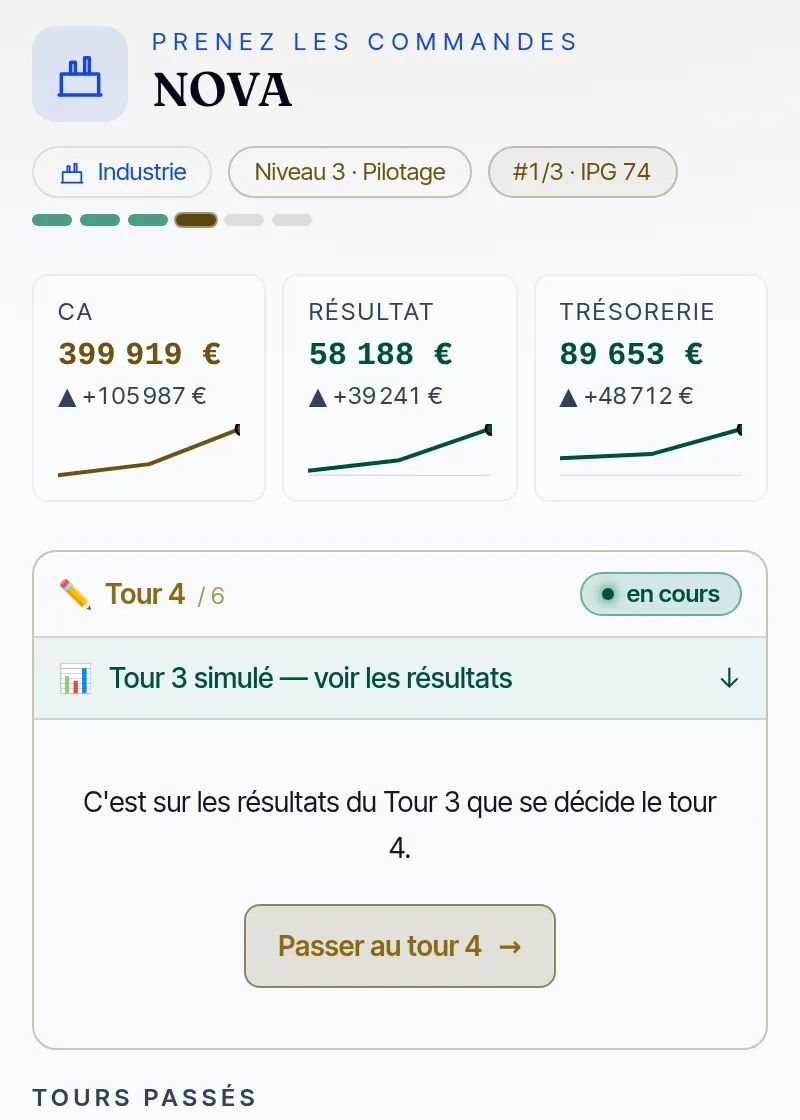
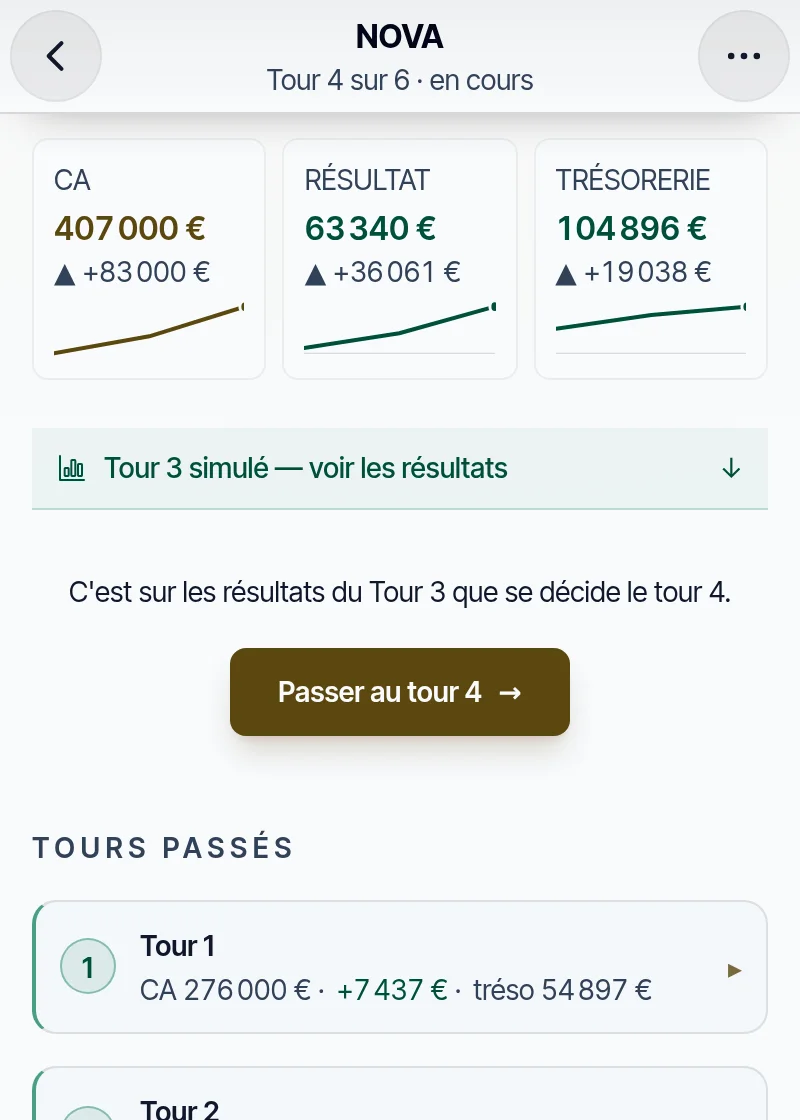
Les captures de l'accueil montrent l'arène d'aujourd'hui
Les trois écrans de la page d'accueil (l'arène, la feuille de décision et
le verdict) dataient de septembre. On y voyait encore l'arène d'avant la
charte : surtitres bleus, chiffres en chasse fixe, émojis, bouton beige.
La page vantait donc une interface qui n'existait plus.

Les six fichiers ont été repris au même cadrage : 400 × 560 en double
densité, captures claires et sombres. Les trois écrans viennent toujours
d'une même partie NOVA, jouée sur trois tours. Au tour 3 : 407 000 € de
chiffre d'affaires, 63 340 € de résultat, 104 896 € de trésorerie, et
1re sur 3. Le moteur ne pouvait pas rejouer la partie de septembre, d'où
des chiffres différents.

Les textes de remplacement suivent les nouveaux chiffres. Le test les
oblige à correspondre à l'image. Celui de la feuille de décision ne parle
plus du fournisseur : sur téléphone, ce choix est passé à l'étape 2 et
n'apparaît plus dans le cadre.

Poids : 141 Ko pour le jeu sombre, 151 Ko pour le jeu clair. Le budget
est de 300 Ko par thème.

Claude-Session: https://claude.ai/code/session_01L5mCiYtruo2g7r6qPvxrmZ

diff --git a/src/app/page.tsx b/src/app/page.tsx
@@ -257,18 +257,18 @@ function MainDeCartes() {
           nom="decider"
           fond
           pose="left-[2%] top-[11%] -rotate-[9deg]"
-          alt="L'écran de décision : prix de vente 74 € par enceinte, plan de production 4 500 enceintes, capacité machine 7 000 et main-d'œuvre 7 200 par tour, goulot équilibré, puis le choix du fournisseur."
+          alt="L'écran de décision : prix de vente 74 € par enceinte, plan de production 5 500 enceintes, capacité machine 7 000 et main-d'œuvre 7 200 par tour, goulot équilibré."
         />
         <CarteEnMain
           nom="resultats"
           fond
           pose="left-[46%] top-[11%] rotate-[9deg]"
-          alt="Le verdict du tour 3 : 58 188 € de bénéfice, 39 241 € de plus qu'au tour précédent, 1re sur 3 équipes, et deux réussites obtenues."
+          alt="Le verdict du tour 3 : 63 340 € de bénéfice, 36 061 € de plus qu'au tour précédent, 1re sur 3 équipes avec un IPG de 80, et deux réussites obtenues."
         />
         <CarteEnMain
           nom="arene"
           pose="left-[24%] top-[4%]"
-          alt="L'arène d'une équipe au quatrième tour : chiffre d'affaires 399 919 €, résultat 58 188 €, trésorerie 89 653 €, et le tour en cours à jouer."
+          alt="L'arène d'une équipe au quatrième tour : chiffre d'affaires 407 000 €, résultat 63 340 €, trésorerie 104 896 €, et le tour en cours à jouer."
         />
       </div>
       {/*

diff --git a/tests/unit/capture-accueil.test.ts b/tests/unit/capture-accueil.test.ts
@@ -142,9 +142,9 @@ describe("les captures de la page d'accueil", () => {
     for (const alt of alts) expect(alt.length).toBeGreaterThan(40);
     // Les chiffres des textes de remplacement sont ceux des captures : une
     // description qui ne correspond pas à l'image est pire qu'une absence.
-    expect(alts.join(" ")).toContain("399 919");
-    expect(alts.join(" ")).toContain("58 188");
-    expect(alts.join(" ")).toContain("4 500");
+    expect(alts.join(" ")).toContain("407 000");
+    expect(alts.join(" ")).toContain("63 340");
+    expect(alts.join(" ")).toContain("5 500");
   });
 
   it("racontent le même tour, et la légende le dit", () => {
